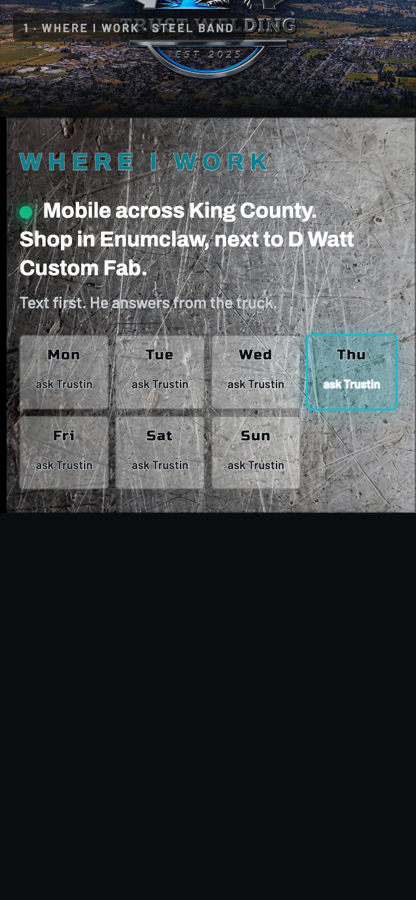
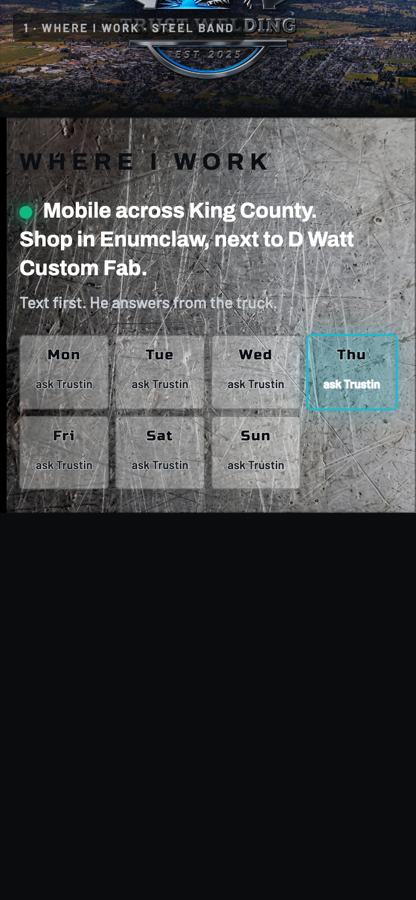
Trust Welding section options: plate eyebrow in black

Changed region(s): [[0.0312, 0.1556, 0.3125, 0.1867], [0.4062, 0.1556, 0.6562, 0.1867], [0.3438, 0.1556, 0.375, 0.1867]]

diff --git a/trust-welding/lab/sections/9-plate-compare.html b/trust-welding/lab/sections/9-plate-compare.html
@@ -10,7 +10,7 @@
 .eyebrow{margin:0 0 10px;font:600 12px/1 var(--body);letter-spacing:.26em;text-transform:uppercase;color:var(--spark)}
 h2{margin:0 0 14px;font:400 clamp(30px,4vw,54px)/1.02 var(--display);letter-spacing:.01em;text-transform:uppercase;color:#fff}
 .plate{background:linear-gradient(rgba(0,0,0,.18),rgba(0,0,0,.18)),url(../../images/texture/panel-steel.jpg) center/cover no-repeat;box-shadow:inset var(--frame) 0 0 #000,inset 0 0 0 1px rgba(0,0,0,.35),inset 0 0 120px rgba(0,0,0,.25)}
-.plate .eyebrow{color:#0F7D8C}.plate .hours span{color:#1b2026}.plate .hours b{color:#0b0e12}.plate .hours li{background:rgba(255,255,255,.35);border-color:rgba(0,0,0,.25)}.plate .hours li.today{background:rgba(36,183,202,.25)}.plate .where{color:#0b0e12;text-shadow:none}.plate .where small{color:#1b2026}
+.plate .eyebrow{color:#0b0e12;-webkit-text-stroke:0}.plate .hours span{color:#1b2026}.plate .hours b{color:#0b0e12}.plate .hours li{background:rgba(255,255,255,.35);border-color:rgba(0,0,0,.25)}.plate .hours li.today{background:rgba(36,183,202,.25)}.plate .where{color:#0b0e12;text-shadow:none}.plate .where small{color:#1b2026}
 .plate h2,.plate p,.plate li{color:#111;text-shadow:none;-webkit-text-stroke:1.2px rgba(255,255,255,.55);paint-order:stroke fill}.plate p{font:700 22px/1.9 var(--panel-body)}
 .dark{background:linear-gradient(rgba(0,0,0,.42),rgba(0,0,0,.52)),url(../refs/his-steel/shop-2.jpg) center/cover no-repeat;box-shadow:inset var(--frame) 0 0 #000,inset 0 0 0 1px rgba(255,255,255,.06)}
 .frame{border:var(--frame) solid #000;background:#000;box-shadow:0 18px 50px -24px rgba(0,0,0,.9);position:relative}.frame img{display:block;width:100%;height:100%;object-fit:cover}
@@ -23,4 +23,4 @@ h2{margin:0 0 14px;font:400 clamp(30px,4vw,54px)/1.02 var(--display);letter-spac
 .cmp{display:grid;grid-template-columns:1fr 1fr;min-height:560px}.cmp aside{padding:clamp(28px,4vw,52px)}.cmp h3{margin:0 0 14px;font:600 12px/1 var(--body);letter-spacing:.2em;text-transform:uppercase}
 .plate h3{color:#111}.darkp h2,.darkp p{color:#fff}.darkp p{font:700 22px/1.9 var(--panel-body)}.darkp h3{color:var(--spark2)}
 @media(max-width:700px){.cmp{grid-template-columns:1fr}}
-</style></head><body><div class="tag">9 · The plate · silver (his pick, 11/4) · dark mill-scale (the critic's read)</div><div class="cmp"><aside class="plate"><h3>Silver · his pick, 11/4</h3><p class="eyebrow" style="color:#0F7D8C">Trucks and trailers</p><h2>Track bars, racks, D-rings</h2><p>Track bars for a Duramax LBZ. A headache rack. Aluminum roof-rack bars. D-rings on a roll-off bed. Built to the truck, not to a catalog.</p></aside><aside class="dark darkp"><h3>Dark mill-scale · the critic's read</h3><p class="eyebrow">Trucks and trailers</p><h2>Track bars, racks, D-rings</h2><p>Track bars for a Duramax LBZ. A headache rack. Aluminum roof-rack bars. D-rings on a roll-off bed. Built to the truck, not to a catalog.</p></aside></div></body></html>
+</style></head><body><div class="tag">9 · The plate · silver (his pick, 11/4) · dark mill-scale (the critic's read)</div><div class="cmp"><aside class="plate"><h3>Silver · his pick, 11/4</h3><p class="eyebrow">Trucks and trailers</p><h2>Track bars, racks, D-rings</h2><p>Track bars for a Duramax LBZ. A headache rack. Aluminum roof-rack bars. D-rings on a roll-off bed. Built to the truck, not to a catalog.</p></aside><aside class="dark darkp"><h3>Dark mill-scale · the critic's read</h3><p class="eyebrow">Trucks and trailers</p><h2>Track bars, racks, D-rings</h2><p>Track bars for a Duramax LBZ. A headache rack. Aluminum roof-rack bars. D-rings on a roll-off bed. Built to the truck, not to a catalog.</p></aside></div></body></html>

diff --git a/trust-welding/lab/sections/1-band-steel.html b/trust-welding/lab/sections/1-band-steel.html
@@ -10,7 +10,7 @@
 .eyebrow{margin:0 0 10px;font:600 12px/1 var(--body);letter-spacing:.26em;text-transform:uppercase;color:var(--spark)}
 h2{margin:0 0 14px;font:400 clamp(30px,4vw,54px)/1.02 var(--display);letter-spacing:.01em;text-transform:uppercase;color:#fff}
 .plate{background:linear-gradient(rgba(0,0,0,.18),rgba(0,0,0,.18)),url(../../images/texture/panel-steel.jpg) center/cover no-repeat;box-shadow:inset var(--frame) 0 0 #000,inset 0 0 0 1px rgba(0,0,0,.35),inset 0 0 120px rgba(0,0,0,.25)}
-.plate .eyebrow{color:#0F7D8C}.plate .hours span{color:#1b2026}.plate .hours b{color:#0b0e12}.plate .hours li{background:rgba(255,255,255,.35);border-color:rgba(0,0,0,.25)}.plate .hours li.today{background:rgba(36,183,202,.25)}.plate .where{color:#0b0e12;text-shadow:none}.plate .where small{color:#1b2026}
+.plate .eyebrow{color:#0b0e12;-webkit-text-stroke:0}.plate .hours span{color:#1b2026}.plate .hours b{color:#0b0e12}.plate .hours li{background:rgba(255,255,255,.35);border-color:rgba(0,0,0,.25)}.plate .hours li.today{background:rgba(36,183,202,.25)}.plate .where{color:#0b0e12;text-shadow:none}.plate .where small{color:#1b2026}
 .plate h2,.plate p,.plate li{color:#111;text-shadow:none;-webkit-text-stroke:1.2px rgba(255,255,255,.55);paint-order:stroke fill}.plate p{font:700 22px/1.9 var(--panel-body)}
 .dark{background:linear-gradient(rgba(0,0,0,.42),rgba(0,0,0,.52)),url(../refs/his-steel/shop-2.jpg) center/cover no-repeat;box-shadow:inset var(--frame) 0 0 #000,inset 0 0 0 1px rgba(255,255,255,.06)}
 .frame{border:var(--frame) solid #000;background:#000;box-shadow:0 18px 50px -24px rgba(0,0,0,.9);position:relative}.frame img{display:block;width:100%;height:100%;object-fit:cover}

diff --git a/trust-welding/lab/sections/2-band-stamped.html b/trust-welding/lab/sections/2-band-stamped.html
@@ -10,7 +10,7 @@
 .eyebrow{margin:0 0 10px;font:600 12px/1 var(--body);letter-spacing:.26em;text-transform:uppercase;color:var(--spark)}
 h2{margin:0 0 14px;font:400 clamp(30px,4vw,54px)/1.02 var(--display);letter-spacing:.01em;text-transform:uppercase;color:#fff}
 .plate{background:linear-gradient(rgba(0,0,0,.18),rgba(0,0,0,.18)),url(../../images/texture/panel-steel.jpg) center/cover no-repeat;box-shadow:inset var(--frame) 0 0 #000,inset 0 0 0 1px rgba(0,0,0,.35),inset 0 0 120px rgba(0,0,0,.25)}
-.plate .eyebrow{color:#0F7D8C}.plate .hours span{color:#1b2026}.plate .hours b{color:#0b0e12}.plate .hours li{background:rgba(255,255,255,.35);border-color:rgba(0,0,0,.25)}.plate .hours li.today{background:rgba(36,183,202,.25)}.plate .where{color:#0b0e12;text-shadow:none}.plate .where small{color:#1b2026}
+.plate .eyebrow{color:#0b0e12;-webkit-text-stroke:0}.plate .hours span{color:#1b2026}.plate .hours b{color:#0b0e12}.plate .hours li{background:rgba(255,255,255,.35);border-color:rgba(0,0,0,.25)}.plate .hours li.today{background:rgba(36,183,202,.25)}.plate .where{color:#0b0e12;text-shadow:none}.plate .where small{color:#1b2026}
 .plate h2,.plate p,.plate li{color:#111;text-shadow:none;-webkit-text-stroke:1.2px rgba(255,255,255,.55);paint-order:stroke fill}.plate p{font:700 22px/1.9 var(--panel-body)}
 .dark{background:linear-gradient(rgba(0,0,0,.42),rgba(0,0,0,.52)),url(../refs/his-steel/shop-2.jpg) center/cover no-repeat;box-shadow:inset var(--frame) 0 0 #000,inset 0 0 0 1px rgba(255,255,255,.06)}
 .frame{border:var(--frame) solid #000;background:#000;box-shadow:0 18px 50px -24px rgba(0,0,0,.9);position:relative}.frame img{display:block;width:100%;height:100%;object-fit:cover}

diff --git a/trust-welding/lab/sections/3-story-trident.html b/trust-welding/lab/sections/3-story-trident.html
@@ -10,7 +10,7 @@
 .eyebrow{margin:0 0 10px;font:600 12px/1 var(--body);letter-spacing:.26em;text-transform:uppercase;color:var(--spark)}
 h2{margin:0 0 14px;font:400 clamp(30px,4vw,54px)/1.02 var(--display);letter-spacing:.01em;text-transform:uppercase;color:#fff}
 .plate{background:linear-gradient(rgba(0,0,0,.18),rgba(0,0,0,.18)),url(../../images/texture/panel-steel.jpg) center/cover no-repeat;box-shadow:inset var(--frame) 0 0 #000,inset 0 0 0 1px rgba(0,0,0,.35),inset 0 0 120px rgba(0,0,0,.25)}
-.plate .eyebrow{color:#0F7D8C}.plate .hours span{color:#1b2026}.plate .hours b{color:#0b0e12}.plate .hours li{background:rgba(255,255,255,.35);border-color:rgba(0,0,0,.25)}.plate .hours li.today{background:rgba(36,183,202,.25)}.plate .where{color:#0b0e12;text-shadow:none}.plate .where small{color:#1b2026}
+.plate .eyebrow{color:#0b0e12;-webkit-text-stroke:0}.plate .hours span{color:#1b2026}.plate .hours b{color:#0b0e12}.plate .hours li{background:rgba(255,255,255,.35);border-color:rgba(0,0,0,.25)}.plate .hours li.today{background:rgba(36,183,202,.25)}.plate .where{color:#0b0e12;text-shadow:none}.plate .where small{color:#1b2026}
 .plate h2,.plate p,.plate li{color:#111;text-shadow:none;-webkit-text-stroke:1.2px rgba(255,255,255,.55);paint-order:stroke fill}.plate p{font:700 22px/1.9 var(--panel-body)}
 .dark{background:linear-gradient(rgba(0,0,0,.42),rgba(0,0,0,.52)),url(../refs/his-steel/shop-2.jpg) center/cover no-repeat;box-shadow:inset var(--frame) 0 0 #000,inset 0 0 0 1px rgba(255,255,255,.06)}
 .frame{border:var(--frame) solid #000;background:#000;box-shadow:0 18px 50px -24px rgba(0,0,0,.9);position:relative}.frame img{display:block;width:100%;height:100%;object-fit:cover}

diff --git a/trust-welding/lab/sections/4-story-plate.html b/trust-welding/lab/sections/4-story-plate.html
@@ -10,7 +10,7 @@
 .eyebrow{margin:0 0 10px;font:600 12px/1 var(--body);letter-spacing:.26em;text-transform:uppercase;color:var(--spark)}
 h2{margin:0 0 14px;font:400 clamp(30px,4vw,54px)/1.02 var(--display);letter-spacing:.01em;text-transform:uppercase;color:#fff}
 .plate{background:linear-gradient(rgba(0,0,0,.18),rgba(0,0,0,.18)),url(../../images/texture/panel-steel.jpg) center/cover no-repeat;box-shadow:inset var(--frame) 0 0 #000,inset 0 0 0 1px rgba(0,0,0,.35),inset 0 0 120px rgba(0,0,0,.25)}
-.plate .eyebrow{color:#0F7D8C}.plate .hours span{color:#1b2026}.plate .hours b{color:#0b0e12}.plate .hours li{background:rgba(255,255,255,.35);border-color:rgba(0,0,0,.25)}.plate .hours li.today{background:rgba(36,183,202,.25)}.plate .where{color:#0b0e12;text-shadow:none}.plate .where small{color:#1b2026}
+.plate .eyebrow{color:#0b0e12;-webkit-text-stroke:0}.plate .hours span{color:#1b2026}.plate .hours b{color:#0b0e12}.plate .hours li{background:rgba(255,255,255,.35);border-color:rgba(0,0,0,.25)}.plate .hours li.today{background:rgba(36,183,202,.25)}.plate .where{color:#0b0e12;text-shadow:none}.plate .where small{color:#1b2026}
 .plate h2,.plate p,.plate li{color:#111;text-shadow:none;-webkit-text-stroke:1.2px rgba(255,255,255,.55);paint-order:stroke fill}.plate p{font:700 22px/1.9 var(--panel-body)}
 .dark{background:linear-gradient(rgba(0,0,0,.42),rgba(0,0,0,.52)),url(../refs/his-steel/shop-2.jpg) center/cover no-repeat;box-shadow:inset var(--frame) 0 0 #000,inset 0 0 0 1px rgba(255,255,255,.06)}
 .frame{border:var(--frame) solid #000;background:#000;box-shadow:0 18px 50px -24px rgba(0,0,0,.9);position:relative}.frame img{display:block;width:100%;height:100%;object-fit:cover}

diff --git a/trust-welding/lab/sections/5-gadget-job.html b/trust-welding/lab/sections/5-gadget-job.html
@@ -10,7 +10,7 @@
 .eyebrow{margin:0 0 10px;font:600 12px/1 var(--body);letter-spacing:.26em;text-transform:uppercase;color:var(--spark)}
 h2{margin:0 0 14px;font:400 clamp(30px,4vw,54px)/1.02 var(--display);letter-spacing:.01em;text-transform:uppercase;color:#fff}
 .plate{background:linear-gradient(rgba(0,0,0,.18),rgba(0,0,0,.18)),url(../../images/texture/panel-steel.jpg) center/cover no-repeat;box-shadow:inset var(--frame) 0 0 #000,inset 0 0 0 1px rgba(0,0,0,.35),inset 0 0 120px rgba(0,0,0,.25)}
-.plate .eyebrow{color:#0F7D8C}.plate .hours span{color:#1b2026}.plate .hours b{color:#0b0e12}.plate .hours li{background:rgba(255,255,255,.35);border-color:rgba(0,0,0,.25)}.plate .hours li.today{background:rgba(36,183,202,.25)}.plate .where{color:#0b0e12;text-shadow:none}.plate .where small{color:#1b2026}
+.plate .eyebrow{color:#0b0e12;-webkit-text-stroke:0}.plate .hours span{color:#1b2026}.plate .hours b{color:#0b0e12}.plate .hours li{background:rgba(255,255,255,.35);border-color:rgba(0,0,0,.25)}.plate .hours li.today{background:rgba(36,183,202,.25)}.plate .where{color:#0b0e12;text-shadow:none}.plate .where small{color:#1b2026}
 .plate h2,.plate p,.plate li{color:#111;text-shadow:none;-webkit-text-stroke:1.2px rgba(255,255,255,.55);paint-order:stroke fill}.plate p{font:700 22px/1.9 var(--panel-body)}
 .dark{background:linear-gradient(rgba(0,0,0,.42),rgba(0,0,0,.52)),url(../refs/his-steel/shop-2.jpg) center/cover no-repeat;box-shadow:inset var(--frame) 0 0 #000,inset 0 0 0 1px rgba(255,255,255,.06)}
 .frame{border:var(--frame) solid #000;background:#000;box-shadow:0 18px 50px -24px rgba(0,0,0,.9);position:relative}.frame img{display:block;width:100%;height:100%;object-fit:cover}

diff --git a/trust-welding/lab/sections/6-gadget-metal.html b/trust-welding/lab/sections/6-gadget-metal.html
@@ -10,7 +10,7 @@
 .eyebrow{margin:0 0 10px;font:600 12px/1 var(--body);letter-spacing:.26em;text-transform:uppercase;color:var(--spark)}
 h2{margin:0 0 14px;font:400 clamp(30px,4vw,54px)/1.02 var(--display);letter-spacing:.01em;text-transform:uppercase;color:#fff}
 .plate{background:linear-gradient(rgba(0,0,0,.18),rgba(0,0,0,.18)),url(../../images/texture/panel-steel.jpg) center/cover no-repeat;box-shadow:inset var(--frame) 0 0 #000,inset 0 0 0 1px rgba(0,0,0,.35),inset 0 0 120px rgba(0,0,0,.25)}
-.plate .eyebrow{color:#0F7D8C}.plate .hours span{color:#1b2026}.plate .hours b{color:#0b0e12}.plate .hours li{background:rgba(255,255,255,.35);border-color:rgba(0,0,0,.25)}.plate .hours li.today{background:rgba(36,183,202,.25)}.plate .where{color:#0b0e12;text-shadow:none}.plate .where small{color:#1b2026}
+.plate .eyebrow{color:#0b0e12;-webkit-text-stroke:0}.plate .hours span{color:#1b2026}.plate .hours b{color:#0b0e12}.plate .hours li{background:rgba(255,255,255,.35);border-color:rgba(0,0,0,.25)}.plate .hours li.today{background:rgba(36,183,202,.25)}.plate .where{color:#0b0e12;text-shadow:none}.plate .where small{color:#1b2026}
 .plate h2,.plate p,.plate li{color:#111;text-shadow:none;-webkit-text-stroke:1.2px rgba(255,255,255,.55);paint-order:stroke fill}.plate p{font:700 22px/1.9 var(--panel-body)}
 .dark{background:linear-gradient(rgba(0,0,0,.42),rgba(0,0,0,.52)),url(../refs/his-steel/shop-2.jpg) center/cover no-repeat;box-shadow:inset var(--frame) 0 0 #000,inset 0 0 0 1px rgba(255,255,255,.06)}
 .frame{border:var(--frame) solid #000;background:#000;box-shadow:0 18px 50px -24px rgba(0,0,0,.9);position:relative}.frame img{display:block;width:100%;height:100%;object-fit:cover}

diff --git a/trust-welding/lab/sections/7-contact-dark.html b/trust-welding/lab/sections/7-contact-dark.html
@@ -10,7 +10,7 @@
 .eyebrow{margin:0 0 10px;font:600 12px/1 var(--body);letter-spacing:.26em;text-transform:uppercase;color:var(--spark)}
 h2{margin:0 0 14px;font:400 clamp(30px,4vw,54px)/1.02 var(--display);letter-spacing:.01em;text-transform:uppercase;color:#fff}
 .plate{background:linear-gradient(rgba(0,0,0,.18),rgba(0,0,0,.18)),url(../../images/texture/panel-steel.jpg) center/cover no-repeat;box-shadow:inset var(--frame) 0 0 #000,inset 0 0 0 1px rgba(0,0,0,.35),inset 0 0 120px rgba(0,0,0,.25)}
-.plate .eyebrow{color:#0F7D8C}.plate .hours span{color:#1b2026}.plate .hours b{color:#0b0e12}.plate .hours li{background:rgba(255,255,255,.35);border-color:rgba(0,0,0,.25)}.plate .hours li.today{background:rgba(36,183,202,.25)}.plate .where{color:#0b0e12;text-shadow:none}.plate .where small{color:#1b2026}
+.plate .eyebrow{color:#0b0e12;-webkit-text-stroke:0}.plate .hours span{color:#1b2026}.plate .hours b{color:#0b0e12}.plate .hours li{background:rgba(255,255,255,.35);border-color:rgba(0,0,0,.25)}.plate .hours li.today{background:rgba(36,183,202,.25)}.plate .where{color:#0b0e12;text-shadow:none}.plate .where small{color:#1b2026}
 .plate h2,.plate p,.plate li{color:#111;text-shadow:none;-webkit-text-stroke:1.2px rgba(255,255,255,.55);paint-order:stroke fill}.plate p{font:700 22px/1.9 var(--panel-body)}
 .dark{background:linear-gradient(rgba(0,0,0,.42),rgba(0,0,0,.52)),url(../refs/his-steel/shop-2.jpg) center/cover no-repeat;box-shadow:inset var(--frame) 0 0 #000,inset 0 0 0 1px rgba(255,255,255,.06)}
 .frame{border:var(--frame) solid #000;background:#000;box-shadow:0 18px 50px -24px rgba(0,0,0,.9);position:relative}.frame img{display:block;width:100%;height:100%;object-fit:cover}

diff --git a/trust-welding/lab/sections/8-contact-textfirst.html b/trust-welding/lab/sections/8-contact-textfirst.html
@@ -10,7 +10,7 @@
 .eyebrow{margin:0 0 10px;font:600 12px/1 var(--body);letter-spacing:.26em;text-transform:uppercase;color:var(--spark)}
 h2{margin:0 0 14px;font:400 clamp(30px,4vw,54px)/1.02 var(--display);letter-spacing:.01em;text-transform:uppercase;color:#fff}
 .plate{background:linear-gradient(rgba(0,0,0,.18),rgba(0,0,0,.18)),url(../../images/texture/panel-steel.jpg) center/cover no-repeat;box-shadow:inset var(--frame) 0 0 #000,inset 0 0 0 1px rgba(0,0,0,.35),inset 0 0 120px rgba(0,0,0,.25)}
-.plate .eyebrow{color:#0F7D8C}.plate .hours span{color:#1b2026}.plate .hours b{color:#0b0e12}.plate .hours li{background:rgba(255,255,255,.35);border-color:rgba(0,0,0,.25)}.plate .hours li.today{background:rgba(36,183,202,.25)}.plate .where{color:#0b0e12;text-shadow:none}.plate .where small{color:#1b2026}
+.plate .eyebrow{color:#0b0e12;-webkit-text-stroke:0}.plate .hours span{color:#1b2026}.plate .hours b{color:#0b0e12}.plate .hours li{background:rgba(255,255,255,.35);border-color:rgba(0,0,0,.25)}.plate .hours li.today{background:rgba(36,183,202,.25)}.plate .where{color:#0b0e12;text-shadow:none}.plate .where small{color:#1b2026}
 .plate h2,.plate p,.plate li{color:#111;text-shadow:none;-webkit-text-stroke:1.2px rgba(255,255,255,.55);paint-order:stroke fill}.plate p{font:700 22px/1.9 var(--panel-body)}
 .dark{background:linear-gradient(rgba(0,0,0,.42),rgba(0,0,0,.52)),url(../refs/his-steel/shop-2.jpg) center/cover no-repeat;box-shadow:inset var(--frame) 0 0 #000,inset 0 0 0 1px rgba(255,255,255,.06)}
 .frame{border:var(--frame) solid #000;background:#000;box-shadow:0 18px 50px -24px rgba(0,0,0,.9);position:relative}.frame img{display:block;width:100%;height:100%;object-fit:cover}
